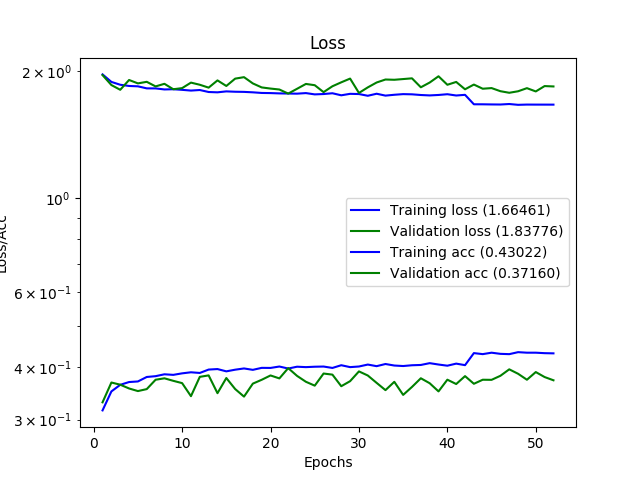
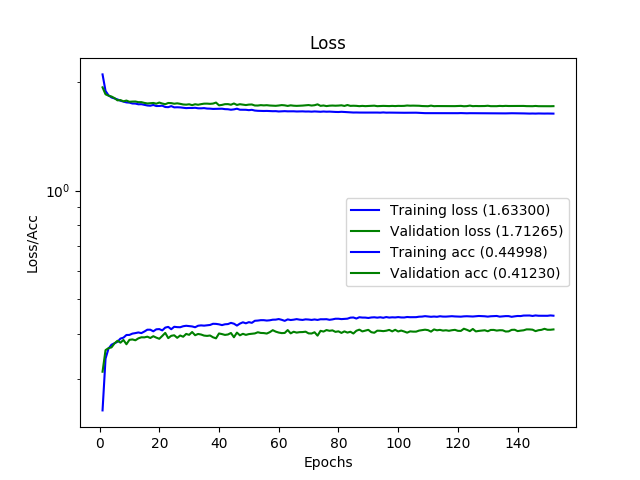
Correct plots ex1

diff --git a/excercise_1.py b/excercise_1.py
@@ -14,21 +14,25 @@ import func
 # Normalize pixel values to be between 0 and 1
 train_images, test_images = train_images / 255.0, test_images / 255.0
 
+if tf.test.is_gpu_available(): #Some how the validation accuracy monitor is called different in the gpu version of tensorflow
+    monitor = 'val_acc'
+else:
+    monitor = 'val_accuracy'
 
-
-'Model no hidden layers'
 
 'Callbacks'
-callback_list = [callbacks.EarlyStopping(monitor='val_accuracy',
+callback_list = [callbacks.EarlyStopping(monitor=monitor,
                                         min_delta=1e-4,
                                         patience=30,
                                         verbose=0,
                                         mode='auto'),
-            callbacks.ReduceLROnPlateau(monitor='val_accuracy',
+            callbacks.ReduceLROnPlateau(monitor=monitor,
                                             factor=0.5,
                                             patience=20,
                                             min_lr=1e-6,
                                             verbose=1)]
+
+'Model no hidden layers'
 
 model = models.Sequential([
     layers.Flatten(),
@@ -38,7 +42,7 @@ model.compile(optimizer='adam',
               loss='sparse_categorical_crossentropy',
               metrics=['accuracy'])
 
-history = model.fit(train_images, train_labels, epochs=500,
+history = model.fit(train_images, train_labels, epochs=500, batch_size=1000,
                     validation_data=(test_images, test_labels), callbacks = callback_list)
 
 func.plot_history(history, 'history/history_h0.png')
@@ -49,18 +53,6 @@ test_loss, test_acc = model.evaluate(test_images, test_labels, verbose=0)
 
 'Model one hidden layers'
 
-'Callbacks'
-callback_list = [callbacks.EarlyStopping(monitor='val_accuracy',
-                                        min_delta=1e-4,
-                                        patience=30,
-                                        verbose=0,
-                                        mode='auto'),
-            callbacks.ReduceLROnPlateau(monitor='val_accuracy',
-                                            factor=0.5,
-                                            patience=20,
-                                            min_lr=1e-6,
-                                            verbose=1)]
-
 model = models.Sequential([
     layers.Flatten(),
     layers.Dense(500, activation='relu'), # hidden layer 1
@@ -69,27 +61,14 @@ model.compile(optimizer='adam',
               loss='sparse_categorical_crossentropy',
               metrics=['accuracy'])
 
-history = model.fit(train_images, train_labels, epochs=500, batch_size=2000,
+history = model.fit(train_images, train_labels, epochs=500, batch_size=1000,
                     validation_data=(test_images, test_labels), callbacks = callback_list)
 
 func.plot_history(history, 'history/history_h1_500.png')
 
 test_loss, test_acc = model.evaluate(test_images, test_labels, verbose=0)
 
-
-
 'Model two hidden layers'
-
-callback_list = [callbacks.EarlyStopping(monitor='val_accuracy',
-                                        min_delta=1e-4,
-                                        patience=30,
-                                        verbose=0,
-                                        mode='auto'),
-            callbacks.ReduceLROnPlateau(monitor='val_accuracy',
-                                            factor=0.5,
-                                            patience=20,
-                                            min_lr=1e-6,
-                                            verbose=1)]
 
 model = models.Sequential([
     layers.Flatten(),
@@ -100,7 +79,7 @@ model.compile(optimizer='adam',
               loss='sparse_categorical_crossentropy',
               metrics=['accuracy'])
 
-history = model.fit(train_images, train_labels, epochs=500,
+history = model.fit(train_images, train_labels, epochs=500, batch_size=1000,
                     validation_data=(test_images, test_labels), callbacks = callback_list)
 
 func.plot_history(history, 'history/history_h1_500_h2_50.png')

diff --git a/excercise_2.py b/excercise_2.py
@@ -17,12 +17,17 @@ import func
 # Normalize pixel values to be between 0 and 1
 train_images, test_images = train_images / 255.0, test_images / 255.0
 
-callback_list = [callbacks.EarlyStopping(monitor='val_accuracy',
+if tf.test.is_gpu_available(): #Some how the validation accuracy monitor is called different in the gpu version of tensorflow
+    monitor = 'val_acc'
+else:
+    monitor = 'val_accuracy'
+
+callback_list = [callbacks.EarlyStopping(monitor=monitor,
                                         min_delta=1e-4,
                                         patience=30,
                                         verbose=0,
                                         mode='auto'),
-                callbacks.ReduceLROnPlateau(monitor='val_accuracy',
+                callbacks.ReduceLROnPlateau(monitor=monitor,
                                                 factor=0.5,
                                                 patience=20,
                                                 min_lr=1e-6,

diff --git a/excercise_3.py b/excercise_3.py
@@ -11,13 +11,17 @@ import func
 # Normalize pixel values to be between 0 and 1
 train_images, test_images = train_images / 255.0, test_images / 255.0
 
+if tf.test.is_gpu_available(): #Some how the validation accuracy monitor is called different in the gpu version of tensorflow
+    monitor = 'val_acc'
+else:
+    monitor = 'val_accuracy'
 
-callback_list = [callbacks.EarlyStopping(monitor='val_accuracy',
+callback_list = [callbacks.EarlyStopping(monitor=monitor,
                                         min_delta=1e-4,
                                         patience=30,
                                         verbose=0,
                                         mode='auto'),
-            callbacks.ReduceLROnPlateau(monitor='val_accuracy',
+            callbacks.ReduceLROnPlateau(monitor=monitor,
                                             factor=0.5,
                                             patience=20,
                                             min_lr=1e-6,

diff --git a/excercise_4.py b/excercise_4.py
@@ -12,13 +12,17 @@ import func
 # Normalize pixel values to be between 0 and 1
 train_images, test_images = train_images / 255.0, test_images / 255.0
 
+if tf.test.is_gpu_available(): #Some how the validation accuracy monitor is called different in the gpu version of tensorflow
+    monitor = 'val_acc'
+else:
+    monitor = 'val_accuracy'
 
-callback_list = [callbacks.EarlyStopping(monitor='val_accuracy',
+callback_list = [callbacks.EarlyStopping(monitor=monitor,
                                         min_delta=1e-4,
                                         patience=30,
                                         verbose=0,
                                         mode='auto'),
-            callbacks.ReduceLROnPlateau(monitor='val_accuracy',
+            callbacks.ReduceLROnPlateau(monitor=monitor,
                                             factor=0.5,
                                             patience=20,
                                             min_lr=1e-6,
